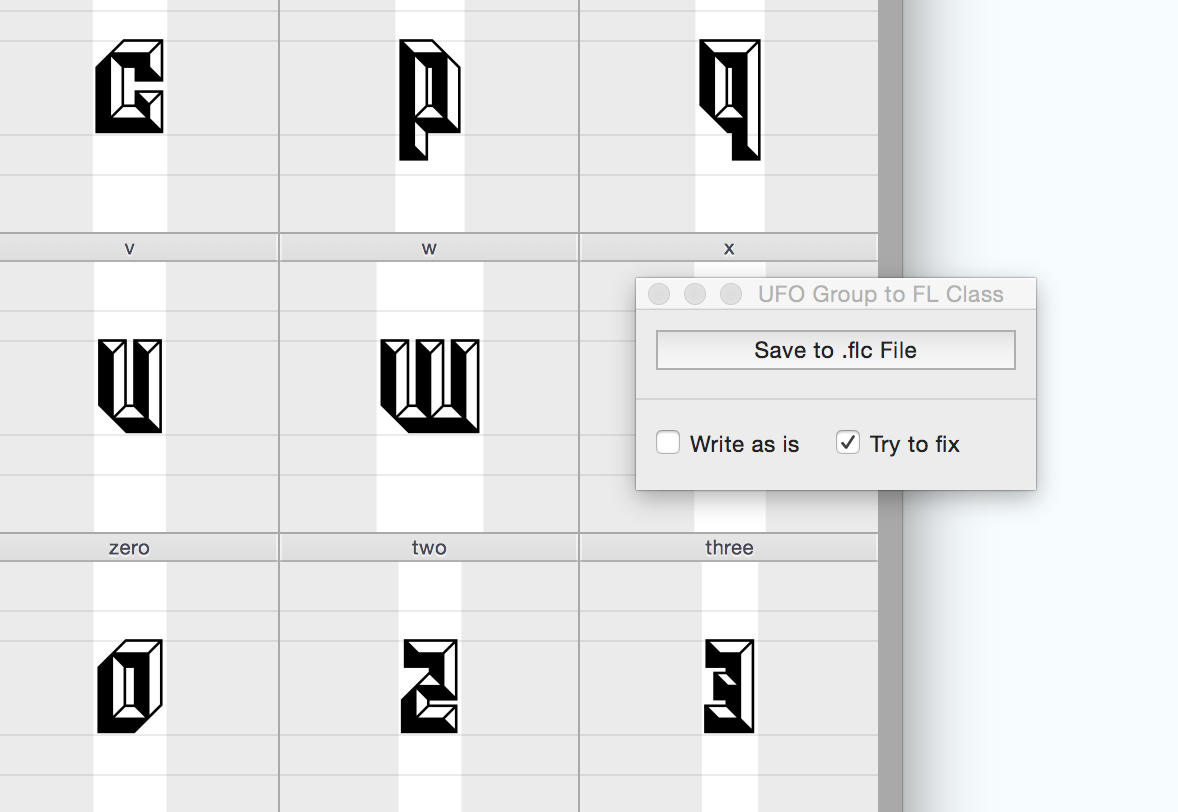
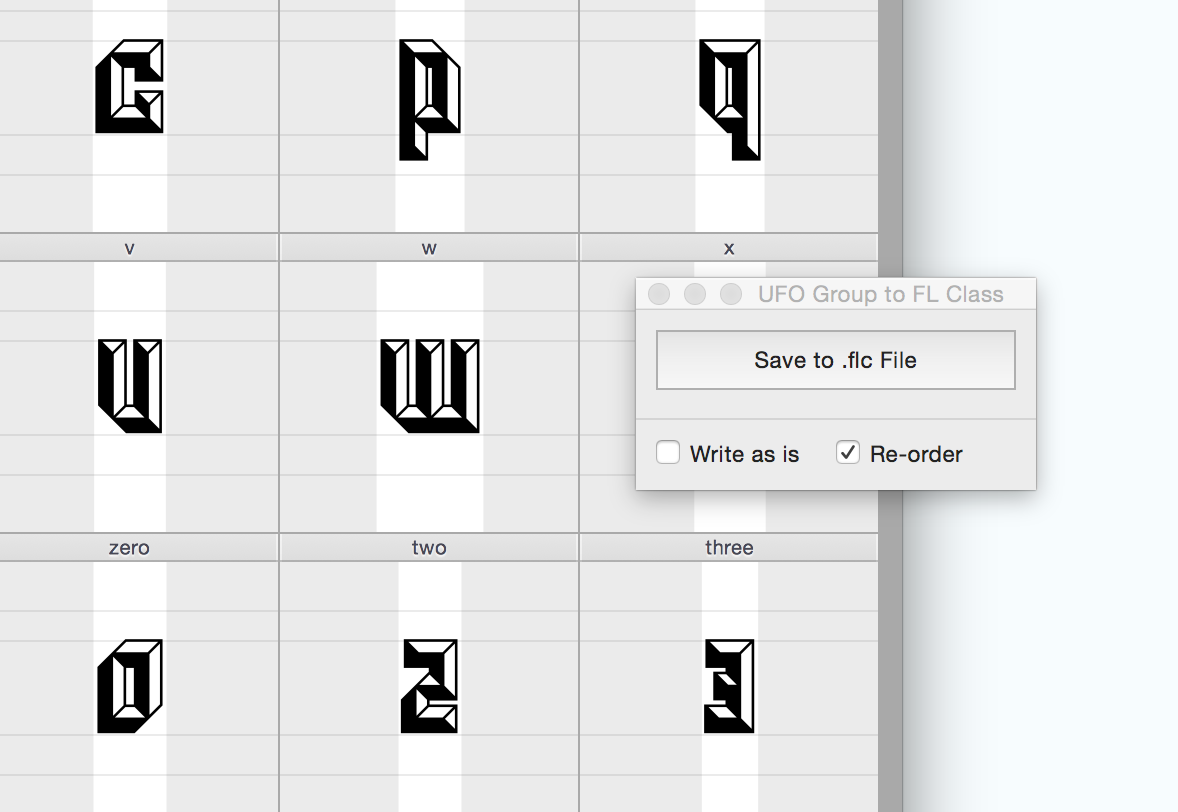
Code clean-up, small change to UI

Changed region(s): [[0.6418, 0.4002, 0.7946, 0.4618], [0.7029, 0.5234, 0.8251, 0.585], [0.5501, 0.5234, 0.6723, 0.585]]

diff --git a/UFO 2 FL/UFO Group to FontLab Class.py b/UFO 2 FL/UFO Group to FontLab Class.py
@@ -7,42 +7,38 @@ class GroupToClass(object):
     
     def __init__(self):
         self.writeAsIs = False
-        self.tryToFix = True
+        self.reorder = True
         self.w = FloatingWindow(    (-260, 100, 200, 90), 
                                     title = 'UFO Group to FL Class'    )
         self.w.button_save_to_flc = SquareButton(
-                                    (10,10, -10, 20),
+                                    (10,10, -10, 30),
                                     title = 'Save to .flc File',
                                     sizeStyle = 'small',
                                     callback = self.generate_flc_file    )
-        self.w.line = HorizontalLine(    (0, 30, -0, 30)    )
-        self.w.writeAsIs = CheckBox(    (10, 56, 100, 20), 
+        self.w.line = HorizontalLine(    (0, 40, -0, 30)    )
+        self.w.writeAsIs = CheckBox(    (10, 61, 100, 20), 
                                         title = 'Write as is',
                                         callback=self.writeAsIsCallback,
                                         sizeStyle = 'small',
                                         value=self.writeAsIs    )
-        self.w.tryToFix = CheckBox(    (100, 56, 100, 20),
-                                        title = 'Try to fix',
-                                        callback=self.tryToFixCallback,
+        self.w.reorder = CheckBox(    (100, 61, 100, 20),
+                                        title = 'Re-order',
+                                        callback=self.reorderCallback,
                                         sizeStyle = 'small',
-                                        value=self.tryToFix    )
+                                        value=self.reorder    )
         
         self.w.open()
         
     def writeAsIsCallback(self, sender):
-        self.w.tryToFix.set(False)
-        self.writeAsIs = True
-        self.tryToFix = False
-        print 'writeAsIs', self.writeAsIs
-        print 'tryToFix\n', self.tryToFix
+        self.w.reorder.set(False)
+        self.writeAsIs = True 
+        self.reorder = False
+
        
-    def tryToFixCallback(self, sender):
+    def reorderCallback(self, sender):
         self.w.writeAsIs.set(False)
         self.writeAsIs = False
-        self.tryToFix = True
-        print 'writeAsIs', self.writeAsIs
-        print 'tryToFix\n', self.tryToFix
-    
+        self.reorder = True
     
                 
     def generate_flc_file(self, sender):
@@ -51,7 +47,13 @@ class GroupToClass(object):
         '''
         
         
-        if CurrentFont():
+        if not CurrentFont():
+            print 'Open a UFO first.'
+        
+        elif CurrentFont() and not CurrentFont().path:
+            print 'Save the UFO first.'
+        
+        elif CurrentFont() and CurrentFont().path:
             f = CurrentFont()
             fontname = f.info.familyName + ' ' + f.info.styleName
             groups = sorted(f.groups.keys())
@@ -72,7 +74,7 @@ class GroupToClass(object):
                         
                     if i[0] == '@':
                         # TRY TO FIX WAY
-                        if self.tryToFix == True:
+                        if self.reorder == True:
                             key_should_be = ''
                             kerning_class_mark = [    'MMK_L_', 'KERN_LEFT_', 'public.kern1.', 
                                                     'MMK_R_', 'KERN_RIGHT_', 'public.kern2.']
@@ -112,14 +114,12 @@ class GroupToClass(object):
             f.write(temp)
             f.close()
     
-            return 'An .flc file with %i classes was written next to your UFO.' %len(groups)
+            print 'An .flc file with %i classes was written next to your UFO.' %len(groups)
 
         
         
-        else:
-            return 'Open a UFO first'
 
-        
+
 
         
 
